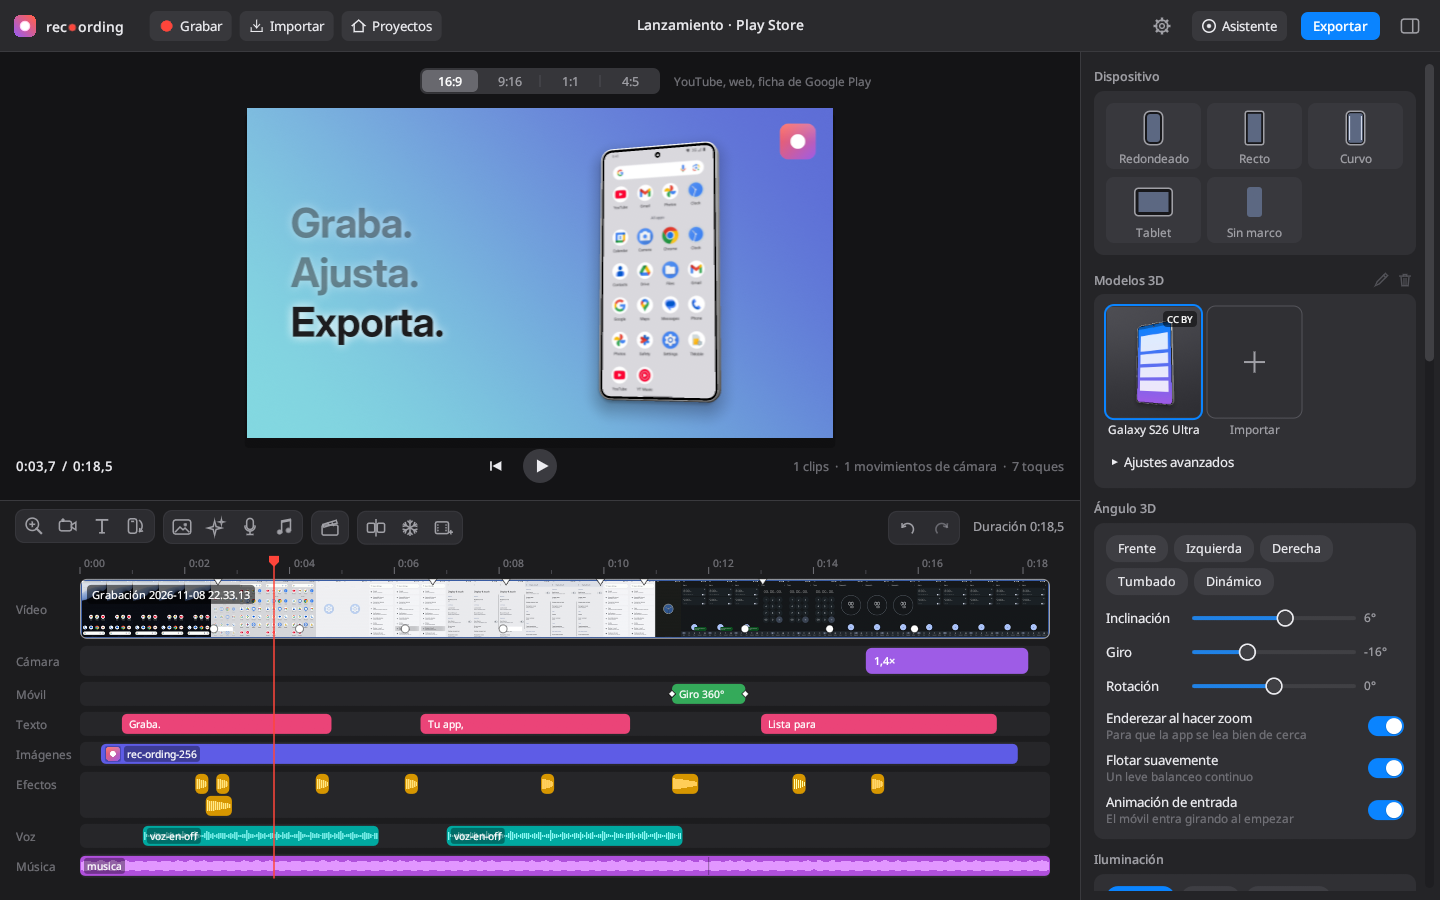
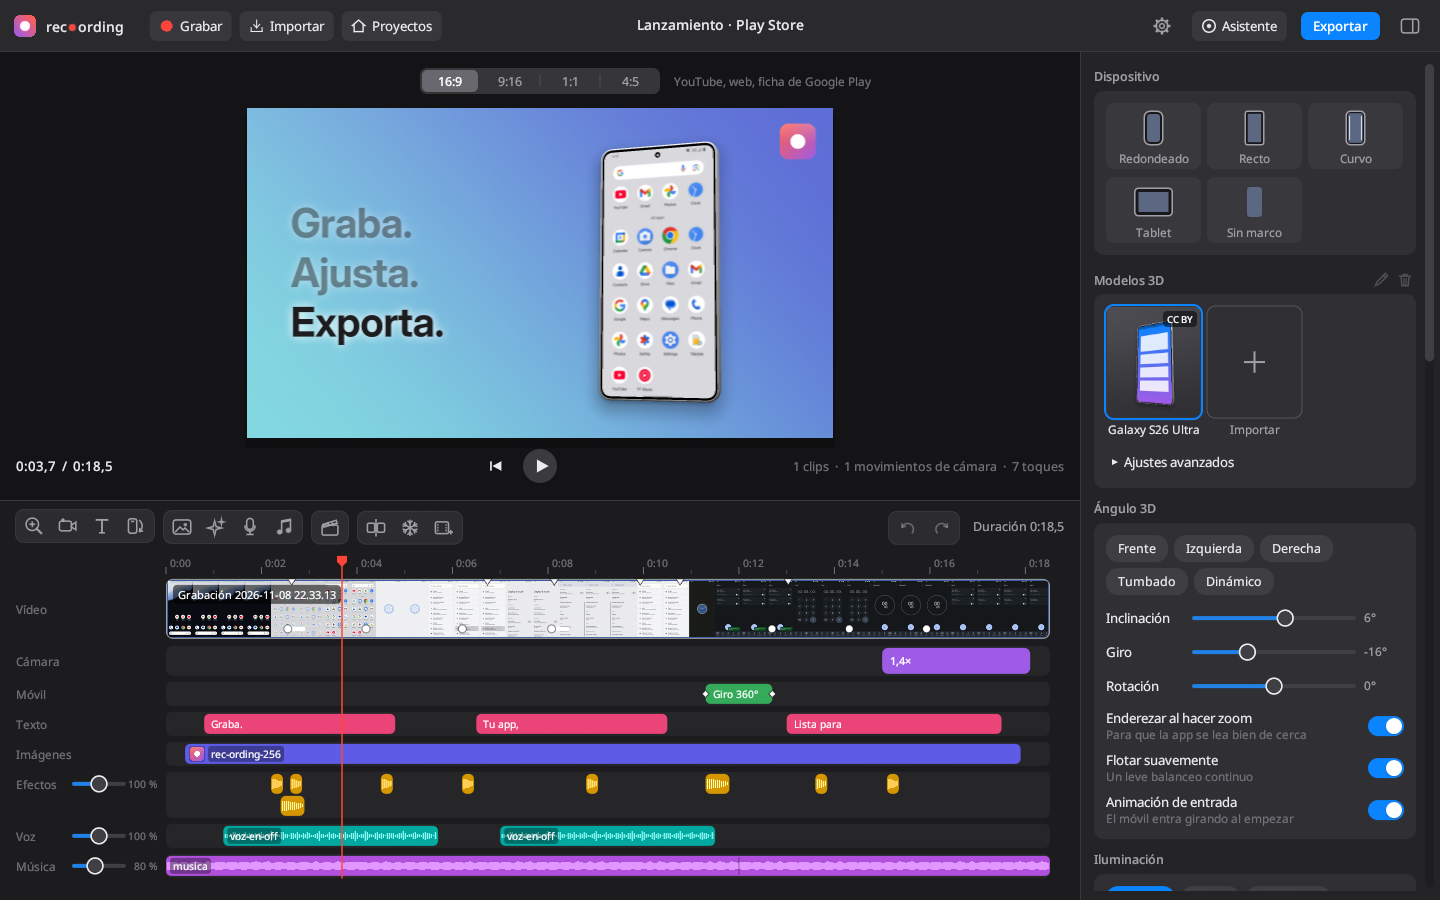
Volumen de cada pista de sonido en la línea de tiempo (v0.15.0)
Efectos, voz y música tienen su control junto al nombre de la pista, cada uno
por separado. La forma de onda de los clips sigue al volumen.

diff --git a/src/app/timeline_ui.rs b/src/app/timeline_ui.rs
@@ -3,7 +3,8 @@
 
 use super::*;
 
-const LABEL_W: f32 = 64.0;
+/// Width of the track headers: name and, on the sound tracks, their volume.
+const LABEL_W: f32 = 150.0;
 const MOVE_COLOR: Color32 = Color32::from_rgb(255, 159, 10);
 const DIRECTOR_COLOR: Color32 = Color32::from_rgb(90, 200, 250);
 const DEVICE_COLOR: Color32 = Color32::from_rgb(52, 170, 90);
@@ -590,6 +591,25 @@ impl RecOrdingApp {
             _ => None,
         };
         self.paint_timeline(ui, &tl, hover_hit, drop_x);
+        self.track_volumes(ui, &tl);
+    }
+
+    /// The volume of each sound track, in its header. Added after the timeline's own area, so
+    /// the sliders get the mouse first.
+    fn track_volumes(&mut self, ui: &mut Ui, tl: &Tl) {
+        for row in &tl.rows {
+            let Layer::Audio(track) = row.layer else { continue };
+            let y = row.rect.top() + 1.0 + LANE_H / 2.0;
+            let rect = Rect::from_min_size(Pos2::new(row.rect.left() + 56.0, y - 9.0), Vec2::new(54.0, 18.0));
+            let volume = self.project.mix.track_mut(track);
+            let builder = UiBuilder::new().id_salt(("track-volume", track)).max_rect(rect).layout(egui::Layout::left_to_right(Align::Center));
+            let mut c = ui.new_child(builder);
+            c.spacing_mut().slider_width = rect.width();
+            c.spacing_mut().interact_size.y = 18.0;
+            c.add(egui::Slider::new(volume, 0.0..=2.0).show_value(false)).on_hover_text(format!("Volumen de {}", track.label().to_lowercase()));
+            let text = format!("{:.0} %", *volume * 100.0);
+            ui.painter().text(Pos2::new(tl.x0 - 8.0, y), Align2::RIGHT_CENTER, text, regular(10.5), TEXT_3);
+        }
     }
 
     /// Where a dragged clip lands: before the first other clip whose middle is past `t`.
@@ -742,7 +762,7 @@ impl RecOrdingApp {
                             if c.looped && c.length > 0.0 {
                                 at = at.rem_euclid(c.length);
                             }
-                            let v = peaks.get((at * per) as usize).copied().unwrap_or(0.0) * c.volume.clamp(0.0, 1.5) / 1.5;
+                            let v = peaks.get((at * per) as usize).copied().unwrap_or(0.0) * (c.volume * self.project.mix.track(c.track)).clamp(0.0, 1.5) / 1.5;
                             let h = (v * half).max(0.5);
                             inner.line_segment([Pos2::new(x, mid - h), Pos2::new(x, mid + h)], Stroke::new(1.0_f32, Color32::from_white_alpha(110)));
                             x += 2.0;

diff --git a/src/audio.rs b/src/audio.rs
@@ -387,8 +387,16 @@ mod tests {
         let quiet = rms(&render(&p, rate).unwrap(), rate, 5.0, 5.9);
         assert!((quiet / loud - 0.25 / 0.8).abs() < 0.05, "{quiet} vs {loud}");
 
-        // A voice-over over the music: the music steps back while it speaks.
+        // Each track has its own volume: lowering one leaves the other as it was.
         p.mix.music = 0.8;
+        let base = render(&p, rate).unwrap();
+        p.mix.effects = 0.5;
+        let softer = render(&p, rate).unwrap();
+        assert!((rms(&softer, rate, 1.1, 1.4) / rms(&base, rate, 1.1, 1.4) - 0.5).abs() < 0.03, "effects at half");
+        assert!((rms(&softer, rate, 3.2, 3.9) / rms(&base, rate, 3.2, 3.9) - 1.0).abs() < 0.01, "the music does not change");
+        p.mix.effects = 1.0;
+
+        // A voice-over over the music: the music steps back while it speaks.
         let voice = tone("voice", 1.0, 440);
         timeline::add_audio(&mut p, AudioTrack::Voice, &voice, 1.0, 4.8).unwrap();
         let ducked = render(&p, rate).unwrap();

diff --git a/src/model.rs b/src/model.rs
@@ -605,6 +605,14 @@ impl Default for Mix {
 }
 
 impl Mix {
+    pub fn track_mut(&mut self, t: AudioTrack) -> &mut f32 {
+        match t {
+            AudioTrack::Effects => &mut self.effects,
+            AudioTrack::Voice => &mut self.voice,
+            AudioTrack::Music => &mut self.music,
+        }
+    }
+
     pub fn track(&self, t: AudioTrack) -> f32 {
         match t {
             AudioTrack::Effects => self.effects,

diff --git a/README.md b/README.md
@@ -60,7 +60,7 @@ Al abrir la app ves el **inicio**: crea un proyecto nuevo, abre uno que ya tenga
    - **Móvil**: movimientos del dispositivo: **giro 360°** sobre el eje vertical, **voltereta 360°** sobre el horizontal, entrada girando, caída desde arriba, asomarse desde abajo, saltito y salida. En los giros eliges vueltas, sentido y duración; si los pones junto a un cambio de clip, se centran en él y el corte ocurre mientras se ve la parte de atrás del móvil. Los movimientos rápidos llevan desenfoque de movimiento.
    - **Texto**: títulos al estilo de los anuncios de Apple, junto al móvil (que se aparta para dejarles sitio y, si quieres, gira un poco para mirarlos), arriba, abajo o en el centro. Un titular (una línea por salto de línea) y, si quieres, una línea más pequeña debajo; tamaño grande para cifras («100 / ciudades reales.»). Entran apareciendo, palabra a palabra o línea a línea (las anteriores se atenúan). Se añaden con el botón **T**, la tecla T o doble clic en la pista.
    - **Imágenes**: logos, distintivos o cualquier PNG, WebP o JPEG, con su transparencia, por encima del vídeo y por debajo de los textos. Arrástralas en la vista previa para colocarlas; en su panel eliges tamaño, opacidad, fundidos y duración. Pueden coincidir varias a la vez.
-   - **Efectos**, **Voz** y **Música**: sonidos (mp3, wav, m4a, ogg, flac…) que se mezclan con el de la grabación. Cada pista admite varios sonidos a la vez, que se apilan en carriles. Arrastra un clip para moverlo (también a otra pista de sonido) y sus bordes para recortarlo; en su panel ajustas volumen, fundidos y si se repite en bucle. La música llena por defecto el resto del vídeo, repitiéndose si es corta, y baja sola mientras habla la voz en off. En **Sonido** eliges el volumen de la grabación y de cada pista. La vista previa ya suena: reproduce la mezcla completa.
+   - **Efectos**, **Voz** y **Música**: sonidos (mp3, wav, m4a, ogg, flac…) que se mezclan con el de la grabación. Cada pista admite varios sonidos a la vez, que se apilan en carriles. Arrastra un clip para moverlo (también a otra pista de sonido) y sus bordes para recortarlo; en su panel ajustas volumen, fundidos y si se repite en bucle. La música llena por defecto el resto del vídeo, repitiéndose si es corta, y baja sola mientras habla la voz en off. Cada una tiene su propio volumen junto a su nombre, en la línea de tiempo; en el panel, **Sonido** reúne esos volúmenes y el de la grabación. La vista previa ya suena: reproduce la mezcla completa.
    Para añadir imágenes y sonidos usa sus botones en la barra de la línea de tiempo, haz doble clic en la pista o arrastra el archivo a la ventana (se coloca en el cursor).
    El **Director** funciona como en Matte: mueve el cursor a cada momento importante, arrastra sobre la vista previa lo que debe verse y pulsa **Generar planos**. Elige movimiento 3D (ángulos y órbitas) o 2D (zoom plano), su intensidad, y pide **otra toma** de un plano si no te convence.
    Las herramientas de la línea de tiempo son iconos, agrupados como en los editores de vídeo (añadir zoom, movimiento de cámara, texto y movimiento del móvil; Director; dividir, congelar fotograma y añadir vídeo; deshacer y rehacer); al pasar el ratón por encima se ve su nombre y su atajo. Todo se puede deshacer (Ctrl+Z) y rehacer (Ctrl+Mayús+Z).

diff --git a/documentacion/resumen-y-plan.md b/documentacion/resumen-y-plan.md
@@ -148,6 +148,10 @@ Todo el plan de `plan-iluminacion-postproceso.md`, más las mejoras pedidas tras
 - Botón del engranaje en la barra de arriba, también en el inicio: versión instalada, **Buscar actualizaciones**, **Actualizaciones automáticas** (activadas por defecto; desactivadas, la app no busca versiones al abrirse) y enlace a **Licencias y créditos**.
 - La página de descargas incluye `licencias.html`: el modelo 3D, la tipografía, los programas externos y las bibliotecas de Rust que usa la app en Linux y Windows, sacadas de `cargo metadata`.
 
+## v0.15.0: volumen en la cabecera de las pistas
+
+- Efectos, voz y música tienen su control de volumen junto al nombre de la pista, en la línea de tiempo (0 a 200 %, cada uno por separado). Son los mismos valores que la sección **Sonido** del panel, y la forma de onda de los clips sigue al volumen.
+
 ## Ideas para siguientes versiones
 
 - Luz animada con fotogramas clave (un barrido de luz durante un giro).
